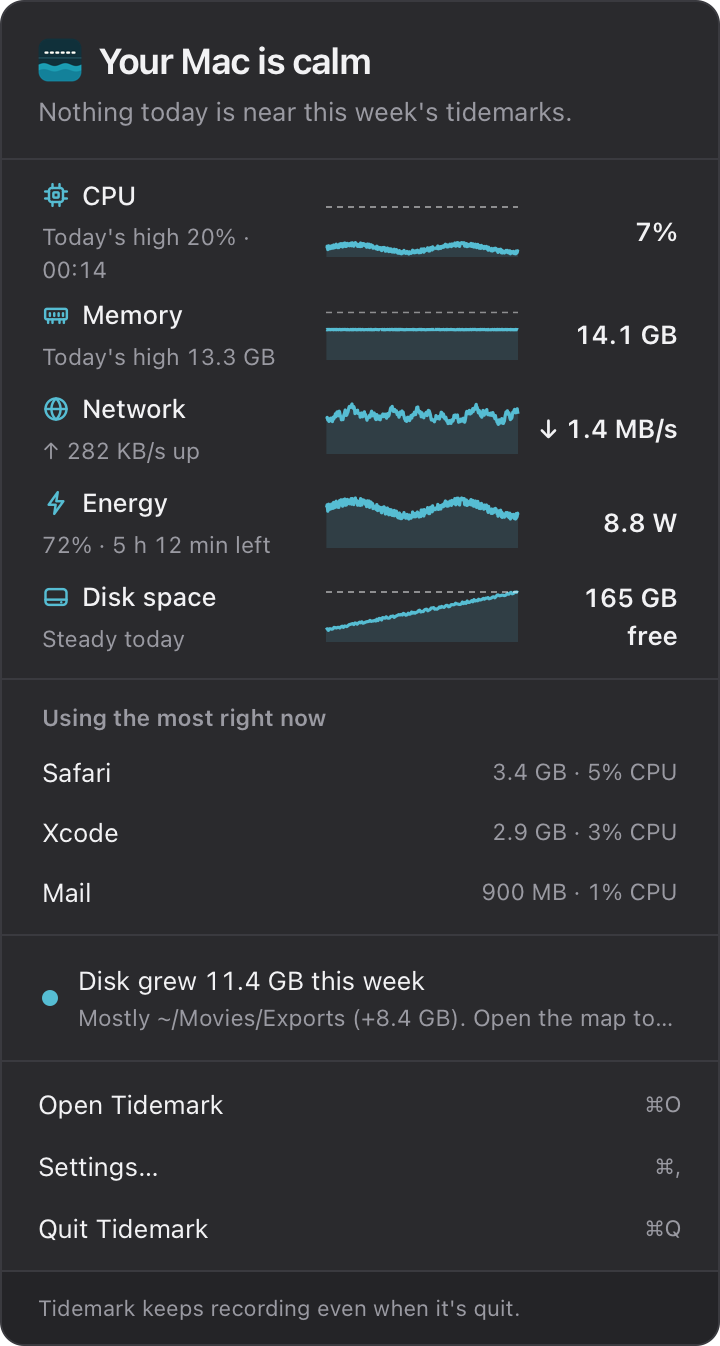
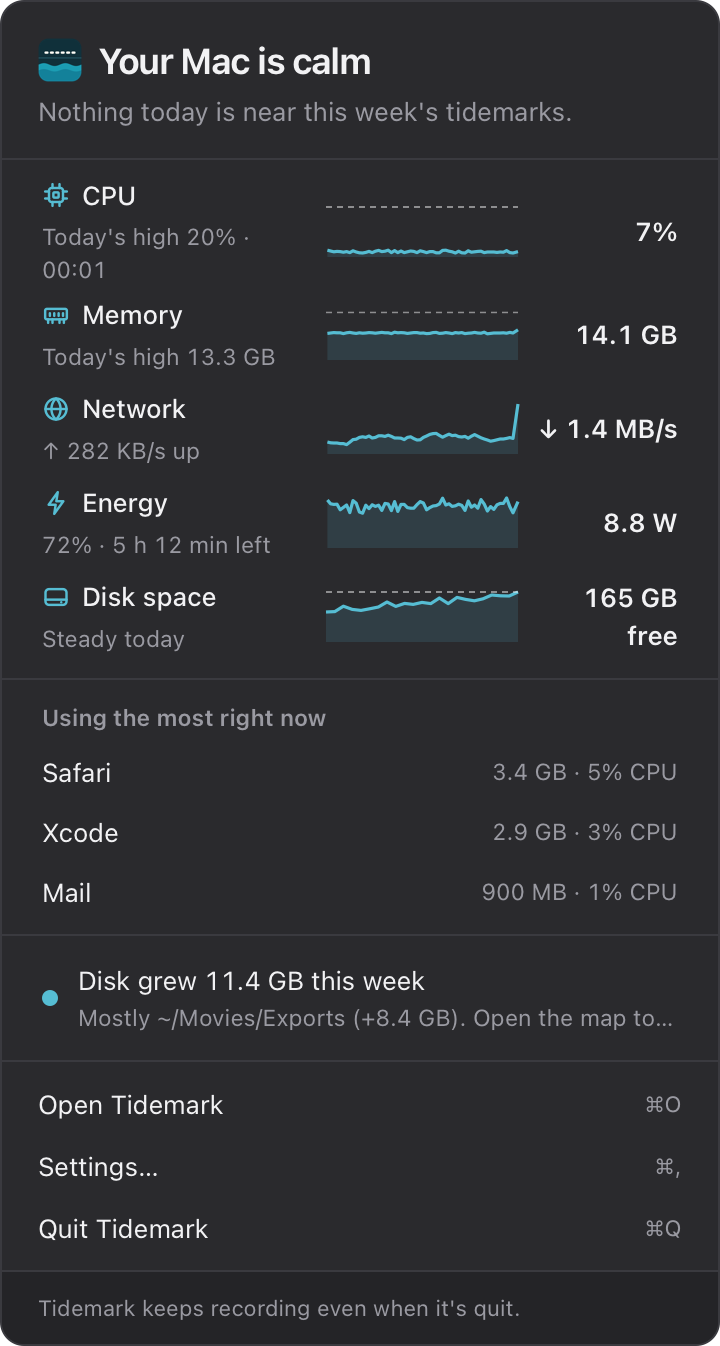
The menu-bar window's lines cover what Now's cards do
The last hour for the live measures (the minutes, then the live
reading), the last 24 hours for disk space.

diff --git a/src/Tray.tsx b/src/Tray.tsx
@@ -17,8 +17,8 @@ import { Spark, type Pt } from "./charts";
 import { Mark } from "./Mark";
 import { flagFor } from "./status";
 import Tooltips from "./Tooltips";
-import { startOfToday } from "./perf";
-import type { DiskTrend, GrowthInfo, Live, PerfHistory, Sleep } from "./types";
+import { startOfToday, upToNow } from "./perf";
+import type { DiskTrend, GrowthInfo, Live, Minute, PerfHistory, Sleep } from "./types";
 import { abbrev, batteryLine, fmt, fmtAt, fmtDelta, fmtRate, fmtW, pct } from "./util";
 
 const WIDTH = 360;
@@ -81,6 +81,9 @@ export function Switch({
 export default function Tray() {
   const [live, setLive] = useState<Live | null>(null);
   const [day, setDay] = useState<PerfHistory | null>(null);
+  // The lines: the last hour minute by minute, and the disk's last day, as on Now.
+  const [hour, setHour] = useState<PerfHistory | null>(null);
+  const [diskDay, setDiskDay] = useState<DiskTrend | null>(null);
   const [disk, setDisk] = useState<DiskTrend | null>(null);
   const [growth, setGrowth] = useState<GrowthInfo | null>(null);
   const [home, setHome] = useState("");
@@ -98,6 +101,14 @@ export default function Tray() {
     api
       .diskTrend(7)
       .then(setDisk)
+      .catch(() => {});
+    api
+      .perf(3600, 60)
+      .then(setHour)
+      .catch(() => {});
+    api
+      .diskTrend(1)
+      .then(setDiskDay)
       .catch(() => {});
     api
       .growth("/", 7)
@@ -217,10 +228,16 @@ export default function Tray() {
   if (!live) return <div className="traywin" ref={root} />;
 
   const latest = live.samples[live.samples.length - 1];
-  // The live lines cover the last 15 minutes, with their gaps (the Mac asleep, say).
-  const liveDomain: [number, number] = latest
-    ? [latest.t / 1000 - 15 * 60, latest.t / 1000]
-    : [0, 1];
+  // The lines cover the last hour, as on Now: the minutes, then the live reading.
+  const liveDomain: [number, number] = latest ? [latest.t / 1000 - 3600, latest.t / 1000] : [0, 1];
+  const lastHour = (pick: (m: Minute) => number | null, now: number | null | undefined): Pt[] =>
+    upToNow(
+      (hour?.points ?? [])
+        .map((m) => ({ t: m.ts, v: pick(m) }))
+        .filter((p): p is Pt => p.v != null),
+      latest ? latest.t / 1000 : undefined,
+      now,
+    );
   const today = startOfToday();
   const highToday = (k: "cpu_max" | "mem_max") => {
     let best: { v: number; t: number } | null = null;
@@ -231,8 +248,9 @@ export default function Tray() {
   const cpuHigh = highToday("cpu_max");
   const memHigh = highToday("mem_max");
   const tm = day?.tidemarks ?? {};
-  const series = (k: "cpu" | "mem"): Pt[] => live.samples.map((s) => ({ t: s.t / 1000, v: s[k] }));
+  const series = (k: "cpu" | "mem"): Pt[] => lastHour((m) => m[k], latest?.[k]);
   const diskPts: Pt[] = (disk?.points ?? []).map((p) => ({ t: p.ts, v: p.used }));
+  const dayDiskPts: Pt[] = (diskDay?.points ?? []).map((p) => ({ t: p.ts, v: p.used }));
   const diskNow = diskPts[diskPts.length - 1]?.v ?? 0;
   const diskTotal = disk?.points[disk.points.length - 1]?.total ?? 0;
   const startOfDay = (disk?.points ?? []).find((p) => p.ts >= today);
@@ -254,7 +272,7 @@ export default function Tray() {
           max={100}
           mark={tm.cpu?.value}
           tone={flagFor(live.status, "CPU")?.tone}
-          label="CPU, last 15 minutes"
+          label="CPU, last hour"
         />
       ),
     },
@@ -275,7 +293,7 @@ export default function Tray() {
           max={live.mem_total}
           mark={tm.mem?.value}
           tone={flagFor(live.status, "Memory")?.tone}
-          label="Memory used, last 15 minutes"
+          label="Memory used, last hour"
         />
       ),
     },
@@ -288,9 +306,9 @@ export default function Tray() {
         <Spark
           sleeps={sleeps}
           domain={liveDomain}
-          pts={live.samples.map((x) => ({ t: x.t / 1000, v: x.net_in }))}
-          max={Math.max(1, ...live.samples.map((x) => x.net_in))}
-          label="Download, last 15 minutes"
+          pts={lastHour((m) => m.net_in, latest?.net_in)}
+          max={Math.max(1, ...lastHour((m) => m.net_in, latest?.net_in).map((p) => p.v))}
+          label="Download, last hour"
         />
       ),
     },
@@ -303,12 +321,10 @@ export default function Tray() {
         <Spark
           sleeps={sleeps}
           domain={liveDomain}
-          pts={live.samples
-            .filter((x) => x.power != null)
-            .map((x) => ({ t: x.t / 1000, v: x.power as number }))}
-          max={Math.max(1, ...live.samples.map((x) => x.power ?? 0))}
+          pts={lastHour((m) => m.power, latest?.power)}
+          max={Math.max(1, ...lastHour((m) => m.power, latest?.power).map((p) => p.v))}
           tone={flagFor(live.status, "Energy")?.tone}
-          label="Power drawn, last 15 minutes"
+          label="Power drawn, last hour"
         />
       ),
     },
@@ -319,12 +335,12 @@ export default function Tray() {
       value: diskTotal ? `${fmt(diskTotal - diskNow)} free` : "–",
       spark: (
         <Spark
-          pts={diskPts}
-          min={diskPts.length ? Math.min(...diskPts.map((p) => p.v)) * 0.995 : 0}
-          max={diskPts.length ? Math.max(...diskPts.map((p) => p.v)) : 1}
+          pts={dayDiskPts}
+          min={dayDiskPts.length ? Math.min(...dayDiskPts.map((p) => p.v)) * 0.995 : 0}
+          max={Math.max(1, ...dayDiskPts.map((p) => p.v), disk?.high?.used ?? 0)}
           mark={disk?.high?.used}
           tone={flagFor(live.status, "Disk space")?.tone}
-          label="Disk space used, last 7 days"
+          label="Disk space used, last 24 hours"
         />
       ),
     },

diff --git a/src/help/menu-bar.md b/src/help/menu-bar.md
@@ -4,7 +4,7 @@ Tidemark keeps recording in the menu bar after you close its window.
 
 - Closing the window also takes Tidemark out of the Dock.
 - The icon gets a mark when something needs attention: memory running high, the CPU busy, swap growing, a low battery, a nearly full disk.
-- Click it for a small window: a sentence on how the Mac is doing, and CPU, memory, network download, energy and disk space, each with a line for the last 15 minutes (the disk's for the week) and today's high.
+- Click it for a small window: a sentence on how the Mac is doing, and CPU, memory, network download, energy and disk space, each with a line for the last hour (the disk's for the last 24 hours, as on Now) and today's high.
 - Below them: what is using the most right now, and a line about the week when there is something to say (an app holding much of your memory, or the disk growing by a gigabyte or more).
 - When something needs attention, the main action takes you to it (Show what's using memory, say).
 - Then **Open Tidemark** (⌘O), **Settings** (⌘,) and **Quit** (⌘Q). ⌘2 and ⌘3 open Performance and Disk Map; Esc closes the window.
